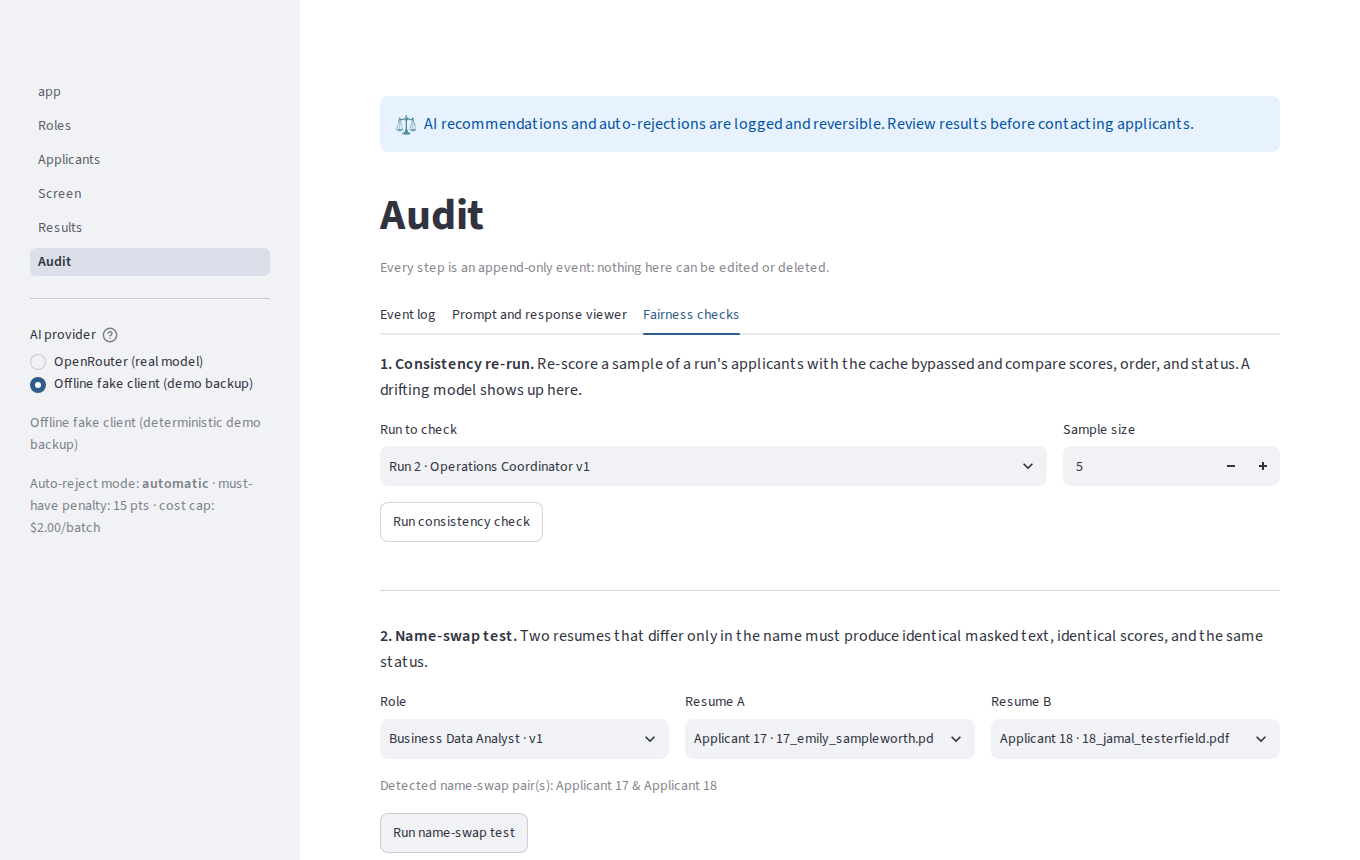
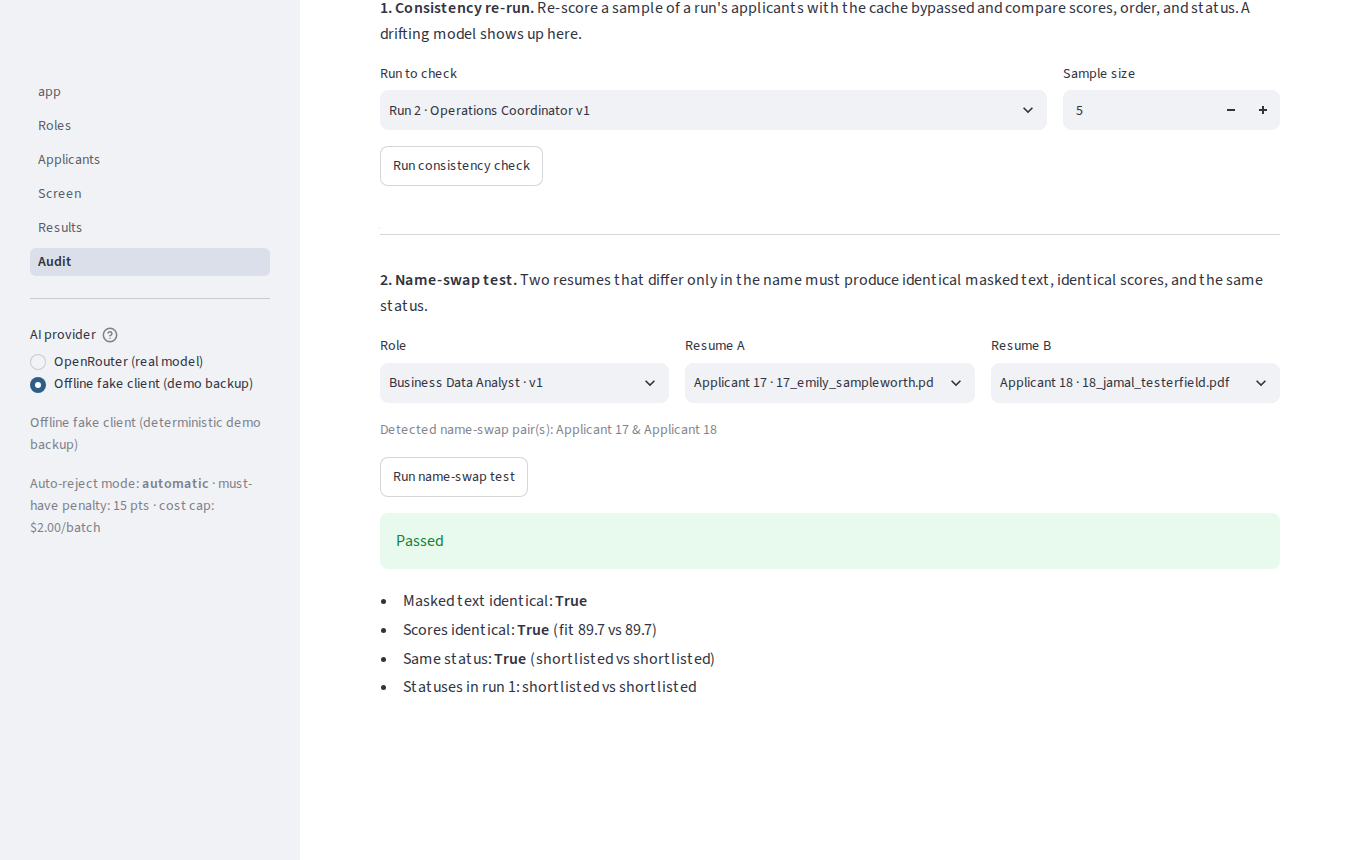
docs: show proxy-flag and name-swap screenshots in the README
WBS 7.1. Screenshots are captured from the live app on fictional demo
data after the code-review fixes.

Claude-Session: https://claude.ai/code/session_01VaFpypFDDxFiNrLQvELVPT

diff --git a/README.md b/README.md
@@ -32,6 +32,10 @@ the sidebar if the network fails mid-presentation.
 | **Results** | Tabs for Shortlist, Not shortlisted, Auto-rejected, Needs review. Evidence quotes, must-have checklist, reasons, overrides, one-click reinstatement (reason required), confirm-mode approval. |
 | **Audit** | Filter the append-only log, read raw prompts and replies, export CSV, run the consistency and name-swap fairness checks. |
 
+| Proxy flag before approval | Name-swap fairness check |
+|---|---|
+| ![Roles page warning that "Recent graduate preferred" may act as a proxy for age](docs/screenshots/roles_proxy_flag.png) | ![Audit page showing the name-swap test passing](docs/screenshots/audit_name_swap.png) |
+
 ## How decisions are made
 
 1. **Mask first.** Names, emails, phones, addresses and ZIP codes, URLs and handles, and image content are removed
